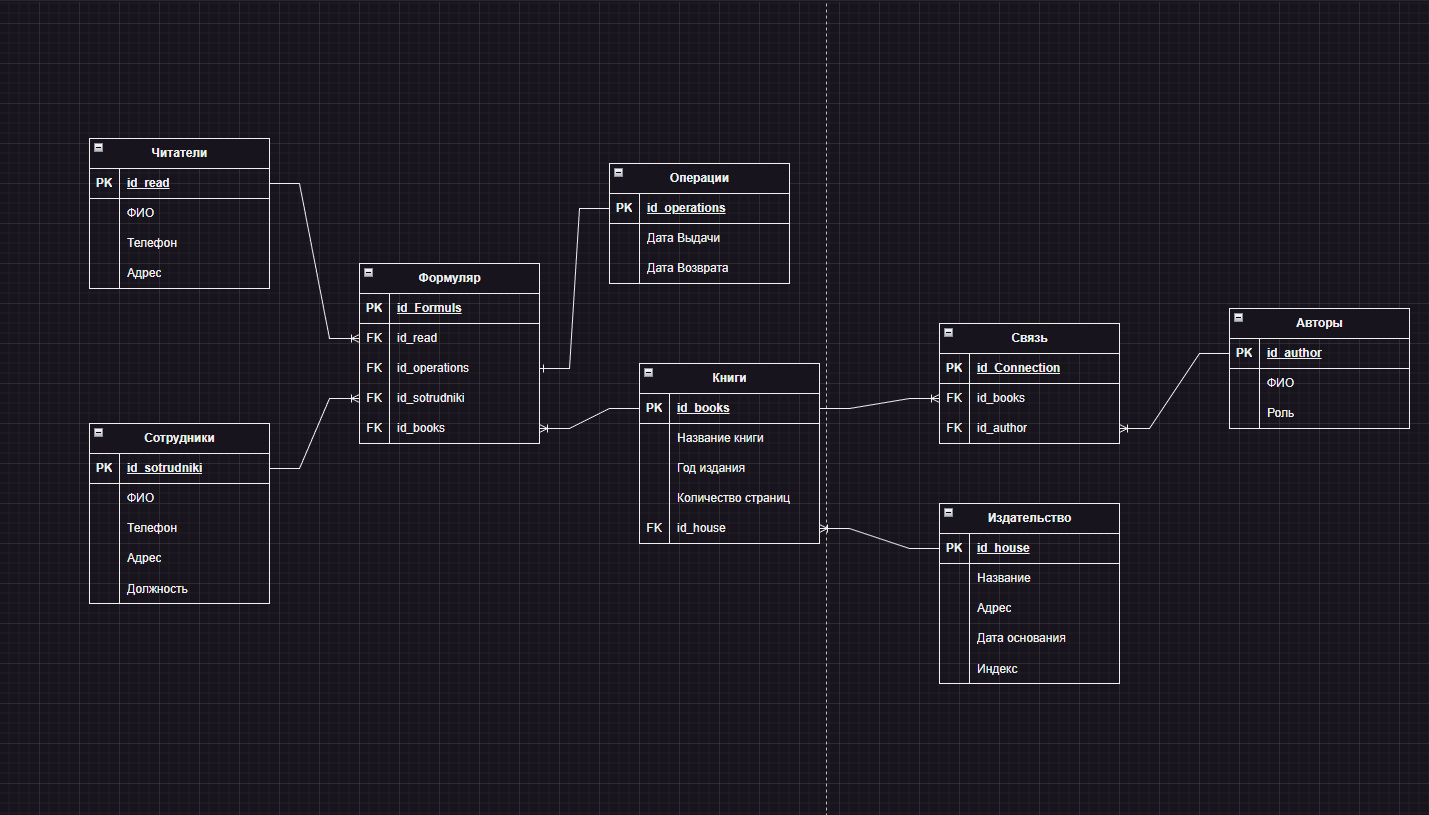
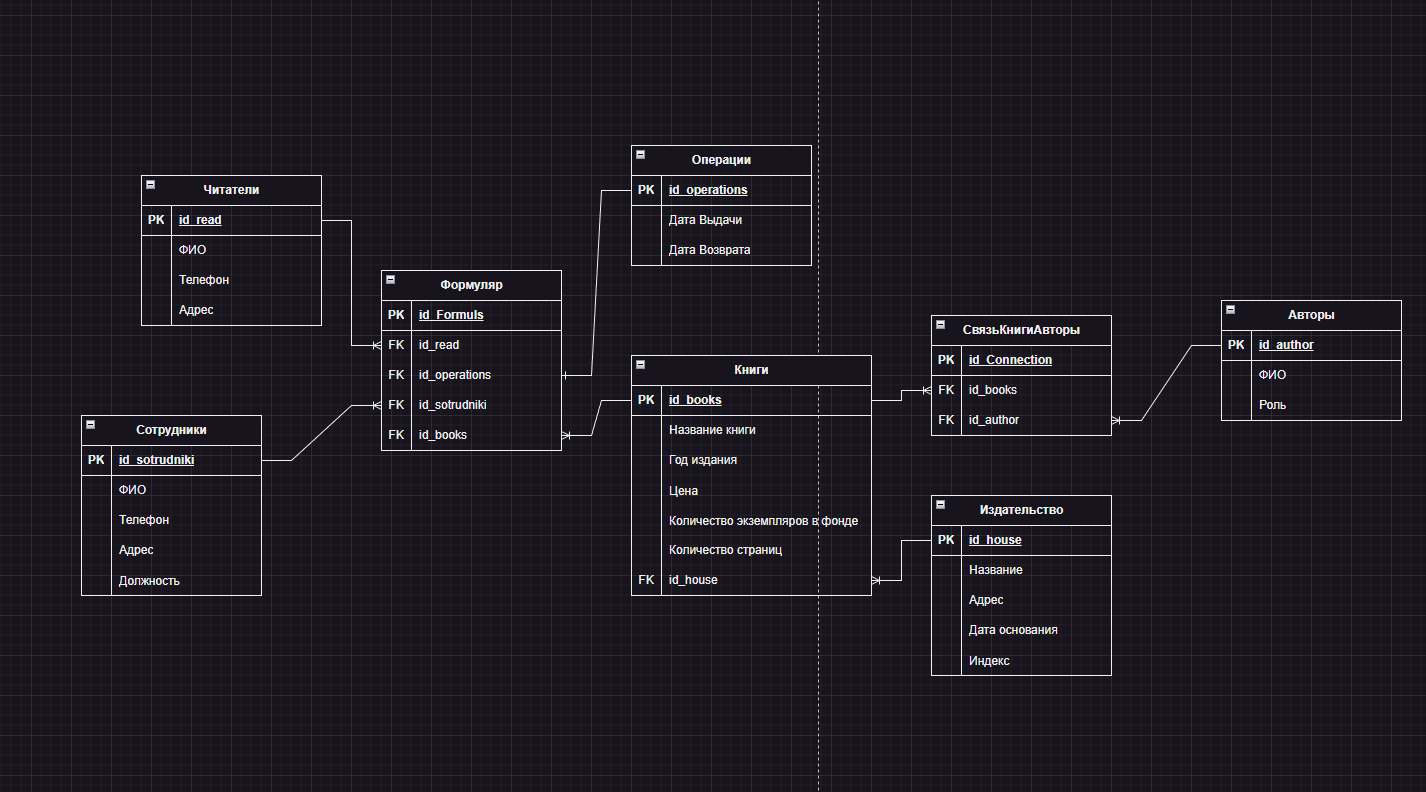
Добавление забытых домен в таблице Книги

diff --git a/README.md b/README.md
@@ -1,4 +1,4 @@
-Связь Читатели - Формуляр (1 ко многим). Причина: Читатель может взять несколько книг в библиотеки, но несколько читателей не могут взять 1 книгу  
+Связь Читатели - Формуляр (1 ко многим). Причина: Читатель может взять несколько книг в библиотеки, но несколько читателей не могут взять 1 книгу одновременно  
 Связь Сотрудники - Формуляр (1 ко многим). Причина: Сотрудник может выдать несколько книг, но несколько сотрудников не могут выдать 1 книгу  
 Связь Операции - Формуляр (1 ко 1). Причина: 1 книга - 1 операция Выдачи, Возврата.
 Связь Книги - Формуляр (1 ко многим). Причина: 1 книга может быть выдана несколько раз, но несколько книг не могут быть выданы в 1 запись  
